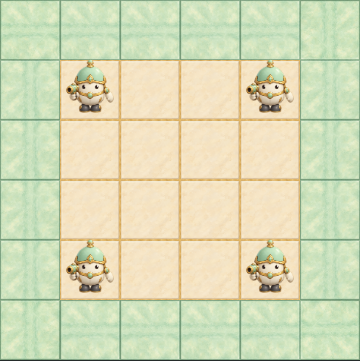
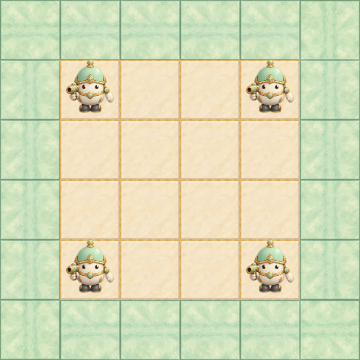
art: capture exact integer-sized review boards and document contrast limits

diff --git a/assets/candidates/round-01/leader/README.md b/assets/candidates/round-01/leader/README.md
@@ -18,3 +18,7 @@ Chromium151.0.7922.173, localhost, viewport960×1600, DPR1에서 실행하고 co
 정적 HTTP 서버로 preview.html을 열면 외부 CDN 없이 실행됩니다. capture-preview.cjs는 설치된 Playwright/Chromium으로 캡처를 재현합니다(CHROMIUM_PATH 선택 가능). PNG를 코드로 생성하거나 편집하지 않습니다.
 generation-prompts.json은 제작자가 전달한 imagegen 프롬프트이며 executor 절대경로는 제거했습니다. corner는 v2만 게시하고 최초 corner는 생성 이력에만 남깁니다. 사용자 승인된 AI 원본 후보의 프로젝트 공개 검토이며 최종 IP/일반 재배포 라이선스 승인을 주장하지 않습니다.
 main의 참고 PNG 복구는 별도 담당 사항으로 이 브랜치에서 수정하지 않았습니다.
+
+## 정확한 캡처 크기 보정
+기존 element screenshot은 소수점 배치 좌표 반올림으로360×361이 될 수 있었습니다. 보드를 정수 좌표(0,0)에 고정한 실제 브라우저 화면을 정확한 clip으로 다시 캡처했습니다. 현재 PNG는864×864 및360×360이며 Pillow 전체 decode와 실제 치수를 검사했습니다. 원본 에셋 픽셀은 변경하지 않았습니다.
+추가 비교 한계: 옅은 바닥과 수호자 사이 대비가 낮고 민트/크림의 색 분리가 약합니다. 질감/줄눈이 시선을 끌며 전투가 들어가면 가독성 위험이 있습니다. 이 후보의 약점으로 기록하며 production 승인이 아닙니다. 이 크기 보정 SHA에서 동료 검토를 기다립니다.
